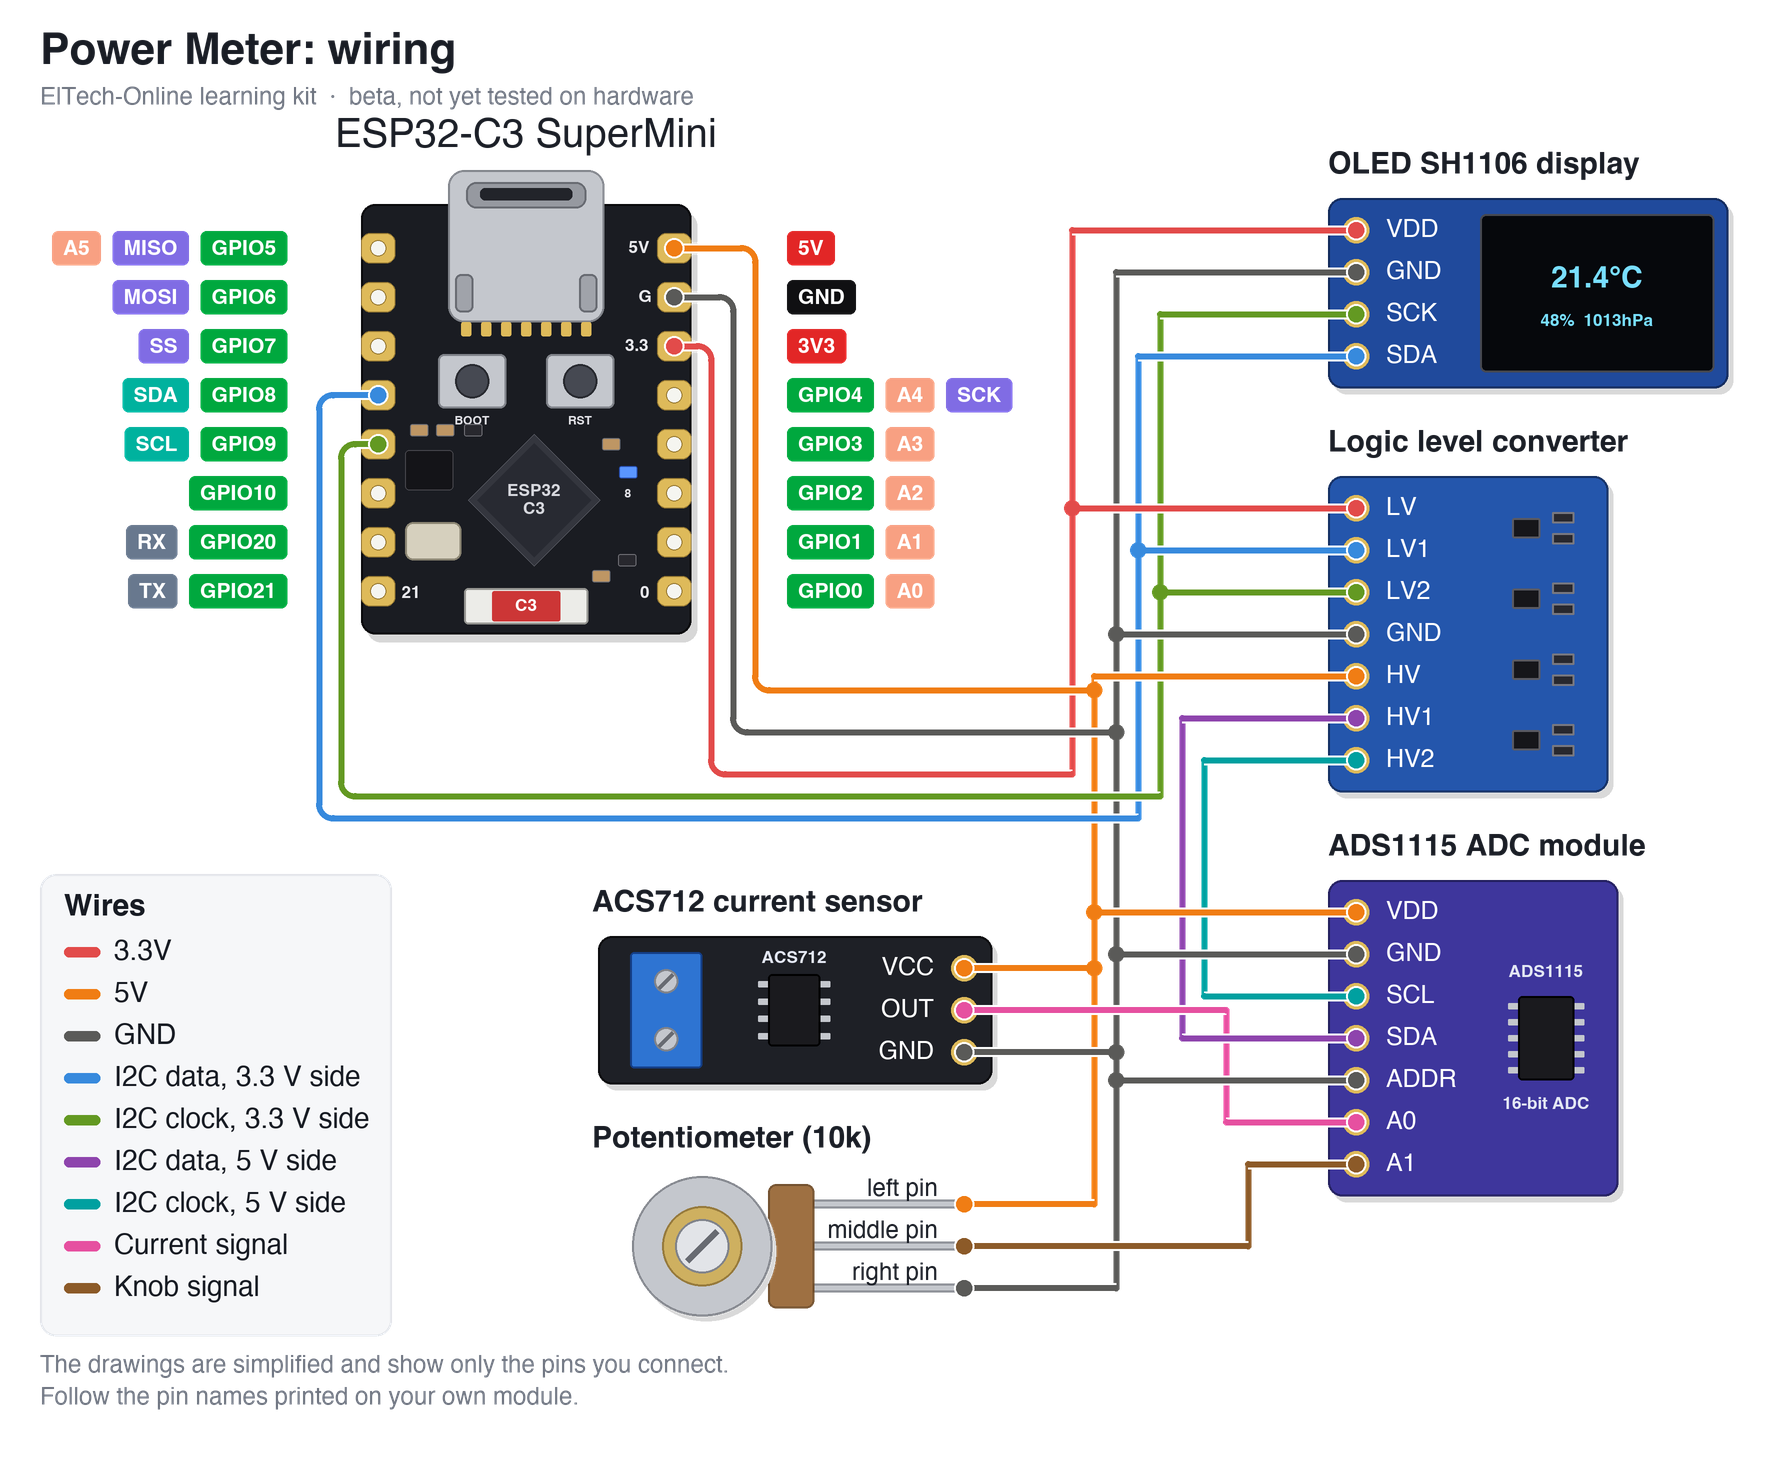
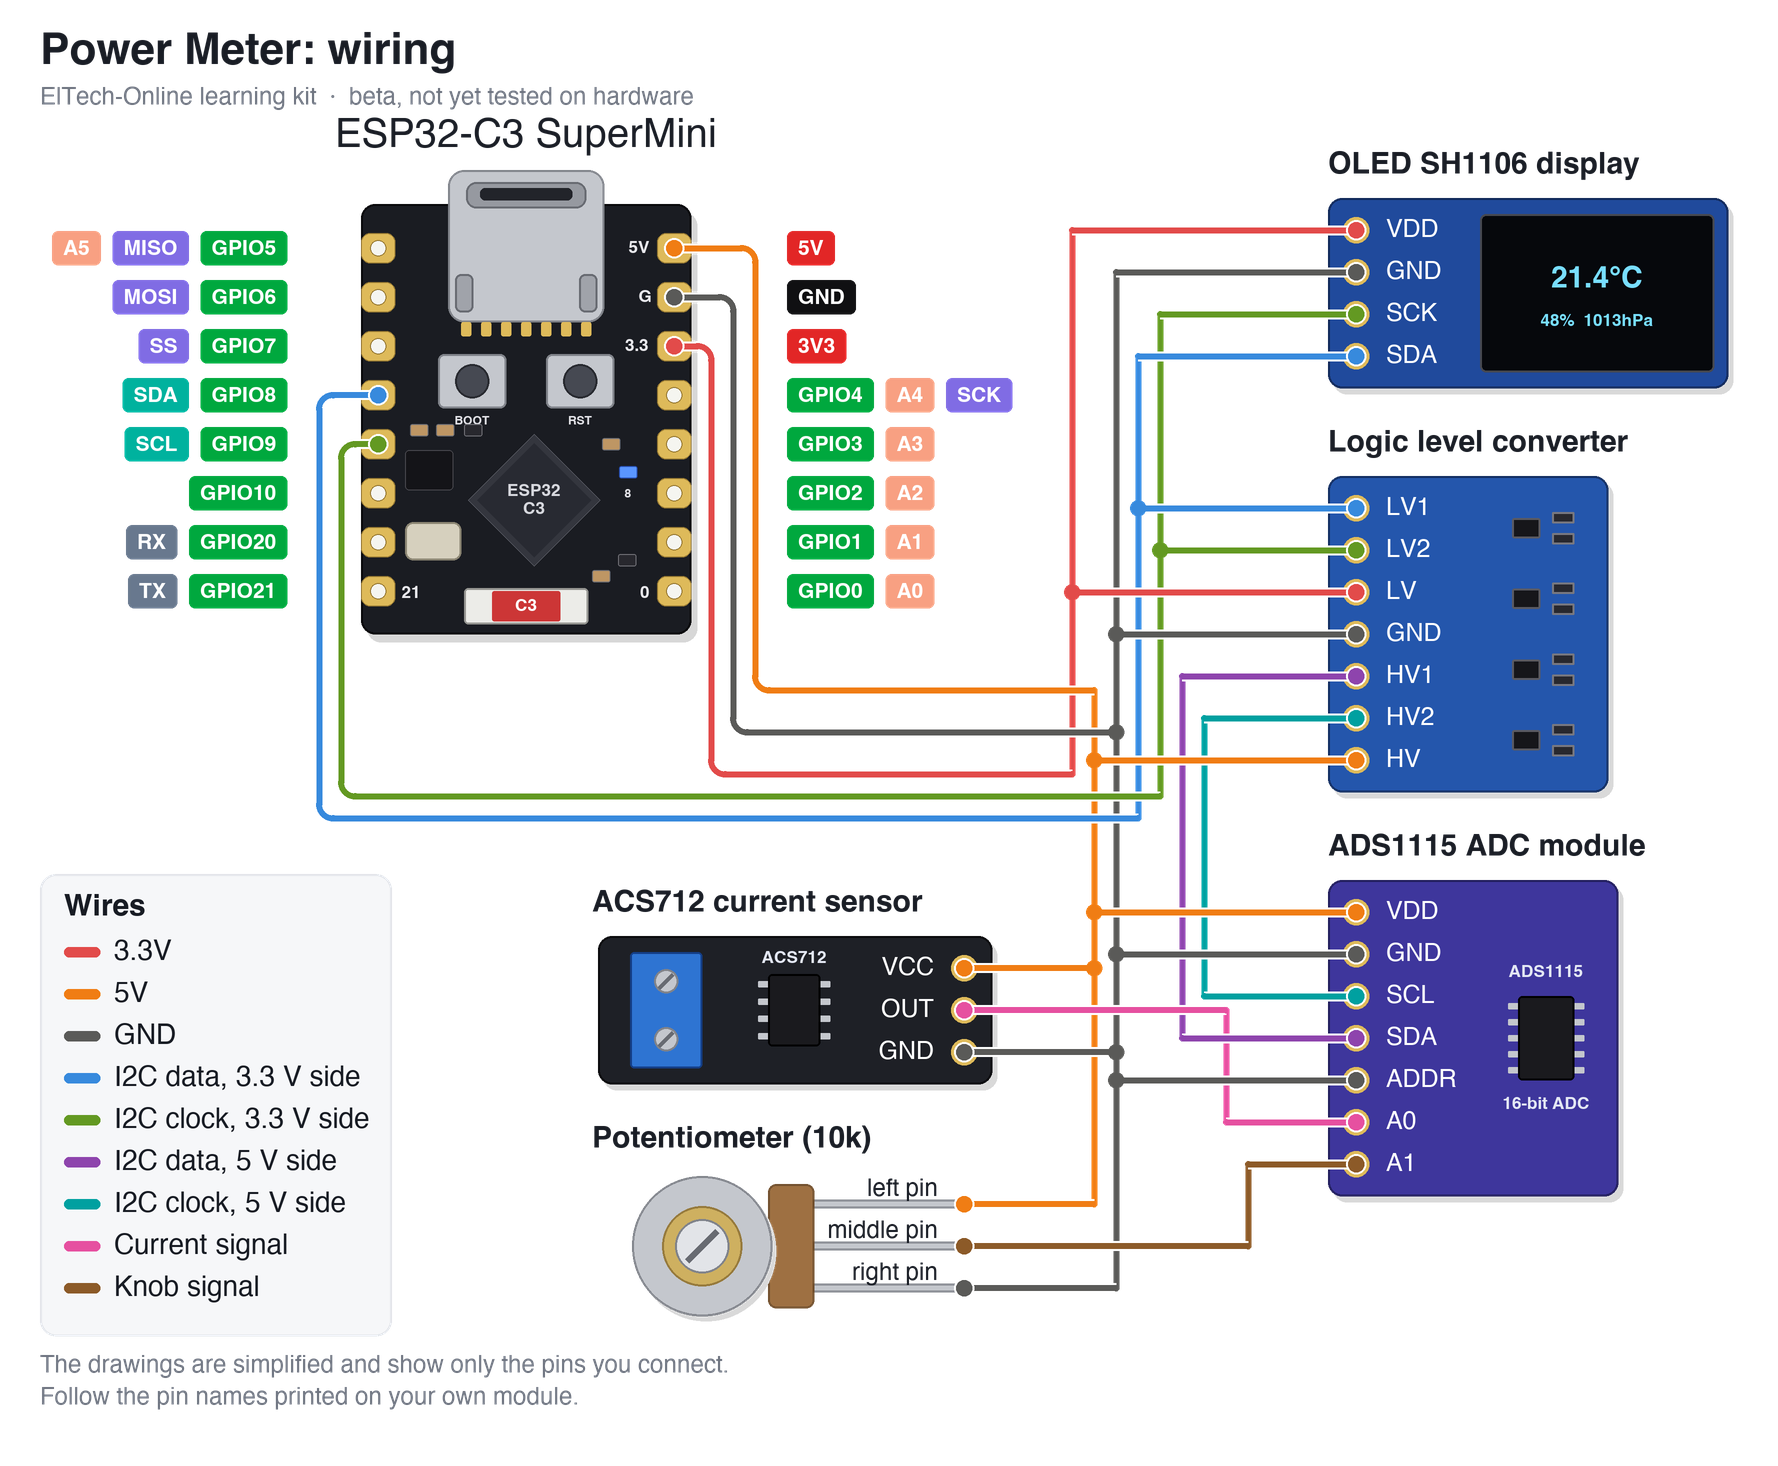
Wiring diagram: list each module's pins in the order printed on the board

Changed region(s): [[0.5877, 0.3377, 0.7733, 0.4297], [0.6187, 0.4604, 0.7733, 0.5218]]

diff --git a/README.md b/README.md
@@ -75,7 +75,7 @@ There are **two sketches** in this repo:
 | ESP32-C3 SuperMini |  |
 | ACS712 current sensor module, 20 A | 3 pins: `VCC`, `OUT`, `GND`, plus two screw terminals for the measured current |
 | ADS1115 16-bit ADC module | 10 pins. Used here: `VDD`, `GND`, `SCL`, `SDA`, `ADDR`, `A0`, `A1` |
-| 4-channel logic level converter | `LV` side: `LV`, `LV1`, `LV2`, `GND`. `HV` side: `HV`, `HV1`, `HV2`, `GND` |
+| 4-channel logic level converter | Two rows of 6 pins: `LV1 LV2 LV GND LV3 LV4` and `HV1 HV2 HV GND HV3 HV4` |
 | 10 kΩ potentiometer | 3 pins. The middle one is the output |
 | 1.3" OLED, SH1106 driver, 128×64, I2C | Address `0x3C` (try `0x3D` if blank) |
 | Breadboard + jumper wires | About 22 wires |
